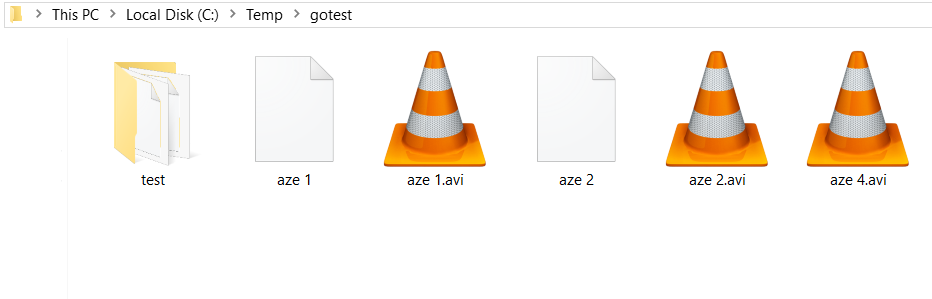
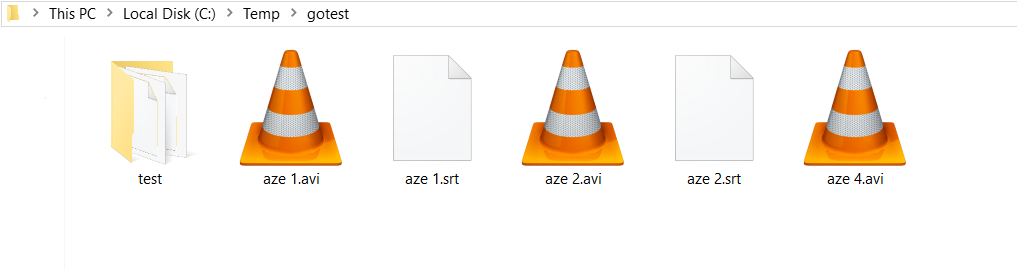
Corrected a bug, missing extension on the subtitles copy Updated screenshot

diff --git a/subrename.go b/subrename.go
@@ -92,7 +92,7 @@ func renameSubs(dirpath, videoext, subext string) {
 		res := rgx.FindString(f.Name())
 		if res != "" {
 			title := videos[res]
-			err = os.Rename(dirpath+dirtools.Separator+f.Name(), dirpath+dirtools.Separator+title)
+			err = os.Rename(dirpath+dirtools.Separator+f.Name(), dirpath+dirtools.Separator+title+subext)
 
 			if err != nil {
 				fmt.Println(err)
